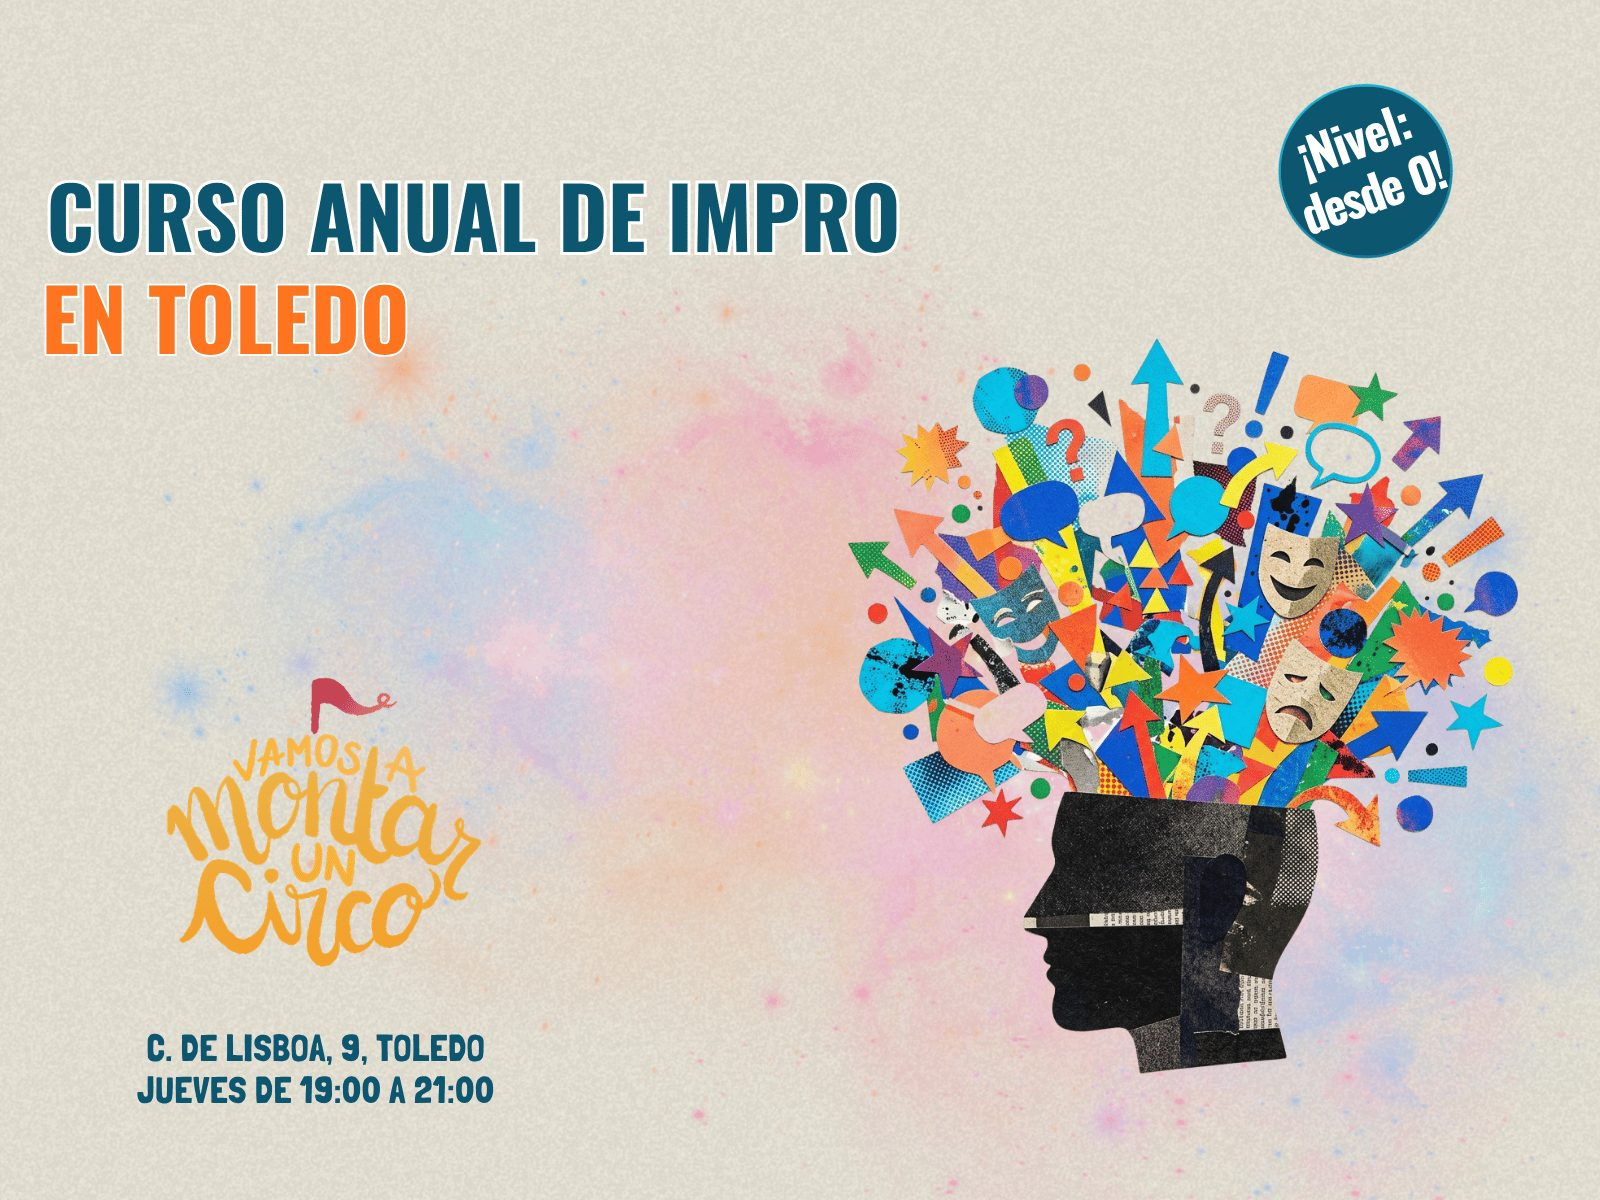
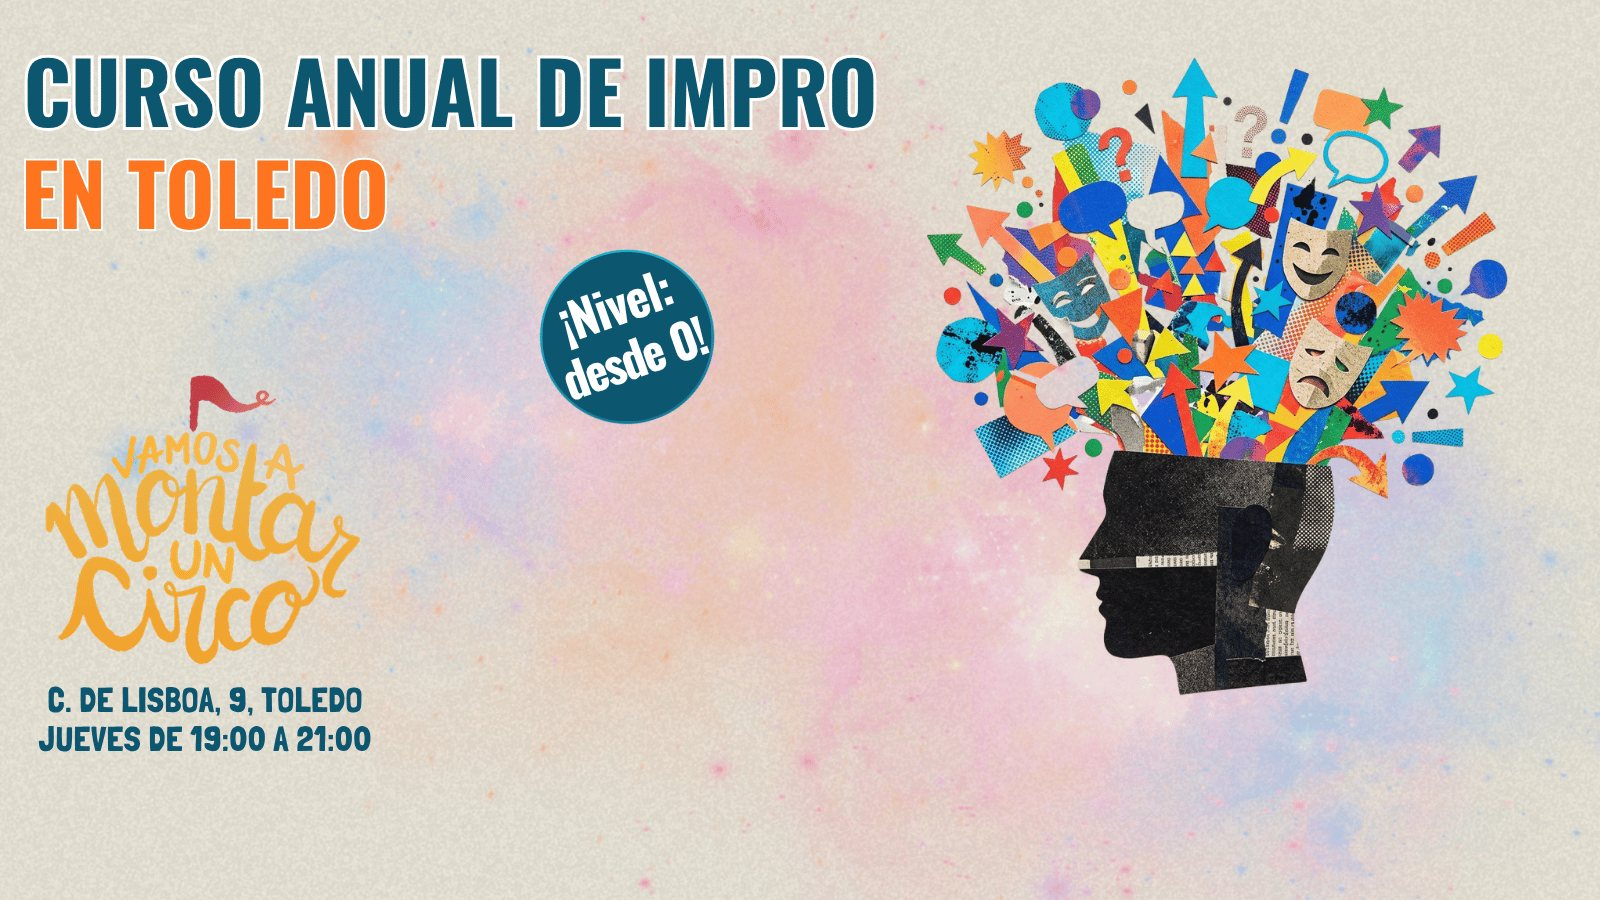
clon: slides apaisados 16:9, fuente Alphakind activa, hero cover
- Hero con los slides apaisados recortados a 16:9 (sin espacio muerto).
- Fuente Alphakind instalada en clon/assets/fonts y aplicada al menu.
- Hero pasa a object-fit cover (imagenes ya 16:9).

Claude-Session: https://claude.ai/code/session_011NJGVB95NEDJmyCLCPenfn

diff --git a/clon/styles.css b/clon/styles.css
@@ -82,7 +82,7 @@ img{max-width:100%; display:block}
 .hslide.on{opacity:1; visibility:visible}
 .hslide .ph{position:absolute; inset:0; display:grid; place-content:center; text-align:center; color:#fff;
   background:linear-gradient(120deg,#243b6b,#111); font-weight:700; letter-spacing:.5px}
-.hslide img{position:absolute; inset:0; width:100%; height:100%; object-fit:contain; background:#0d0d0d}
+.hslide img{position:absolute; inset:0; width:100%; height:100%; object-fit:cover; background:#0d0d0d}
 .h-arrow{position:absolute; top:50%; transform:translateY(-50%); z-index:3; width:46px; height:46px; border-radius:50%;
   background:rgba(0,0,0,.35); border:0; color:#fff; cursor:pointer; display:grid; place-items:center; transition:background .15s}
 .h-arrow:hover{background:var(--orange)}
